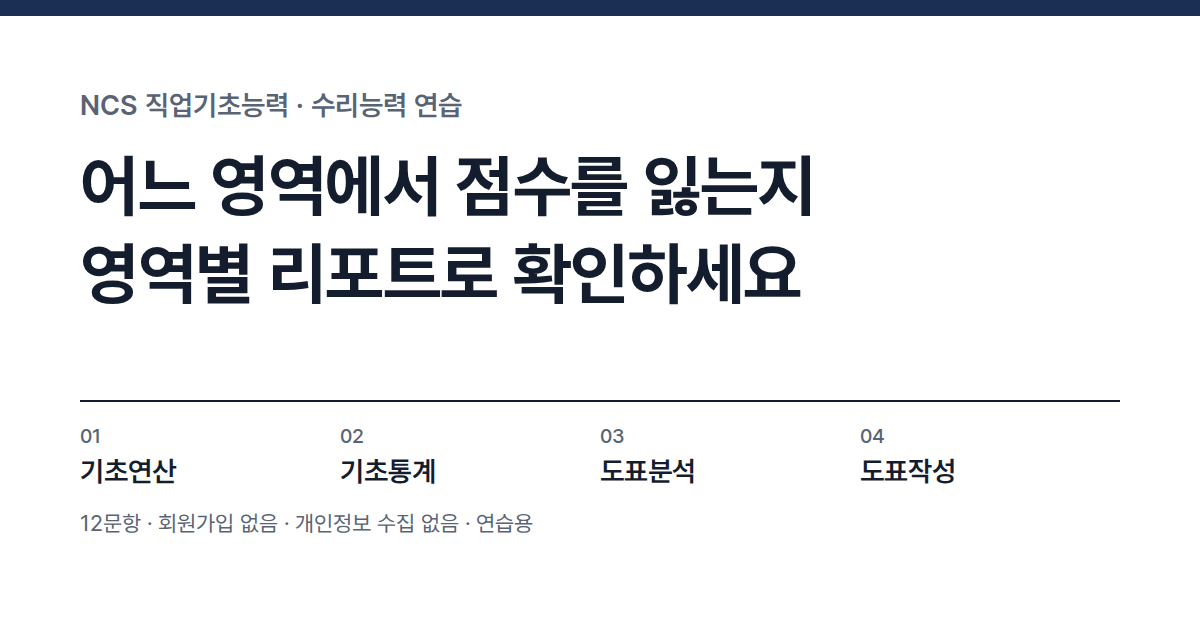
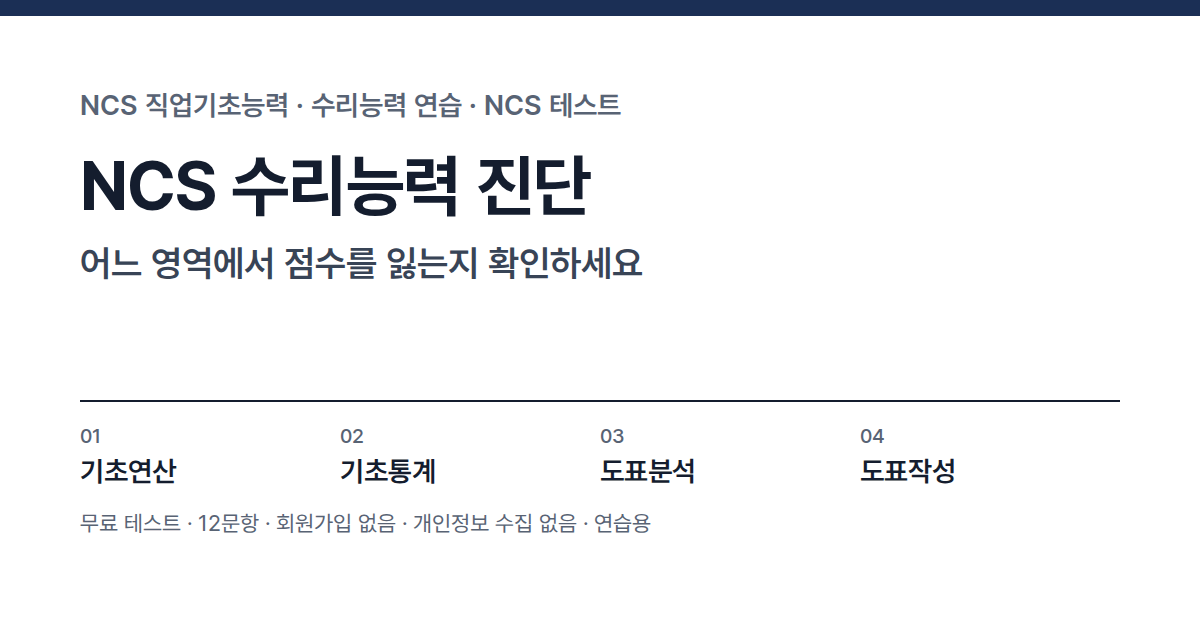
제목·메타를 'NCS 수리능력 진단' 기준으로 통일
- 메인 <title>/OG: 'NCS 수리능력 진단 · 무료 테스트', h1 'NCS 수리능력 진단' + 보조 문구
- 보조 문구에 'NCS 테스트' 추가, meta description·OG·JSON-LD·안내/풀이 페이지 title,
  머리말 브랜드, 시작 전 안내, 결과·인쇄 성적표 제목('NCS 수리능력 진단 리포트') 정리
- 변형 키워드는 문장 안에서 1회씩만 ('NCS 수리 문제' 메인 description, 'NCS 수리 모의고사' 안내 페이지)
- OG 이미지 새 제목으로 재생성, README 제목 변경
- /diagnosis/ noindex, robots·sitemap 규칙은 그대로

Claude-Session: https://claude.ai/code/session_01LXuCSLsUj66MjWXprg1TaF

diff --git a/index.html b/index.html
@@ -3,17 +3,17 @@
 <head>
 <meta charset="utf-8">
 <meta name="viewport" content="width=device-width, initial-scale=1, viewport-fit=cover">
-<title>NCS 수리능력 연습 진단 · 영역별 약점 리포트</title>
-<meta name="description" content="기초연산·기초통계·도표분석·도표작성 4개 영역을 12문항으로 점검하고, 영역별 정답률·풀이 시간·틀린 패턴과 추천 학습 순서를 확인하는 무료 연습 진단입니다. 회원가입과 개인정보 수집이 없습니다.">
+<title>NCS 수리능력 진단 · 무료 테스트</title>
+<meta name="description" content="NCS 수리능력 진단은 기초연산·기초통계·도표분석·도표작성 4개 영역을 12문항으로 점검하고 영역별 정답률·풀이 시간·틀린 패턴과 추천 학습 순서를 알려 주는 무료 NCS 테스트입니다. 풀 때마다 숫자가 바뀌는 NCS 수리 문제로 연습할 수 있으며, 회원가입과 개인정보 수집이 없습니다.">
 <link rel="canonical" href="%VITE_SITE_URL%/">
 <meta name="theme-color" content="#1b2f55" media="(prefers-color-scheme: light)">
 <meta name="theme-color" content="#0f1623" media="(prefers-color-scheme: dark)">
 <link rel="icon" href="/favicon.svg" type="image/svg+xml">
 <meta property="og:type" content="website">
 <meta property="og:locale" content="ko_KR">
-<meta property="og:site_name" content="수리능력 연습 진단">
-<meta property="og:title" content="NCS 수리능력 연습 진단 · 영역별 약점 리포트">
-<meta property="og:description" content="4개 영역 12문항으로 영역별 정답률·풀이 시간·틀린 패턴과 추천 학습 순서를 확인하세요. 풀 때마다 숫자가 바뀌는 연습용 문제입니다.">
+<meta property="og:site_name" content="NCS 수리능력 진단">
+<meta property="og:title" content="NCS 수리능력 진단 · 무료 테스트">
+<meta property="og:description" content="NCS 수리능력 진단: 4개 영역 12문항으로 영역별 정답률·풀이 시간·틀린 패턴과 추천 학습 순서를 확인하는 무료 NCS 테스트입니다.">
 <meta property="og:url" content="%VITE_SITE_URL%/">
 <meta property="og:image" content="%VITE_SITE_URL%/og.png">
 <meta property="og:image:width" content="1200">
@@ -21,15 +21,16 @@
 <meta name="twitter:card" content="summary_large_image">
 <link rel="stylesheet" href="/src/styles/main.css">
 <script type="application/ld+json">
-{"@context":"https://schema.org","@type":"WebApplication","name":"수리능력 연습 진단","applicationCategory":"EducationalApplication","operatingSystem":"Web","inLanguage":"ko","isAccessibleForFree":true,"description":"기초연산·기초통계·도표분석·도표작성 4개 영역 연습 진단과 영역별 리포트"}
+{"@context":"https://schema.org","@type":"WebApplication","name":"NCS 수리능력 진단","applicationCategory":"EducationalApplication","operatingSystem":"Web","inLanguage":"ko","isAccessibleForFree":true,"description":"기초연산·기초통계·도표분석·도표작성 4개 영역을 점검하는 무료 NCS 테스트와 영역별 리포트"}
 </script>
 </head>
 <body>
 <!--#masthead-->
 <main class="page" id="main">
   <section class="hero" aria-labelledby="hero-title">
-    <p class="eyebrow">NCS 직업기초능력 · 수리능력 연습</p>
-    <h1 class="title" id="hero-title">수리능력, 어느 영역에서<br>점수를 잃는지 확인하세요</h1>
+    <p class="eyebrow">NCS 직업기초능력 · 수리능력 연습 · NCS 테스트</p>
+    <h1 class="title" id="hero-title">NCS 수리능력 진단</h1>
+    <p class="hero-sub">어느 영역에서 점수를 잃는지 확인하세요</p>
     <p class="lead">기초연산·기초통계·도표분석·도표작성 4개 영역에서 3문항씩, 모두 12문항을 풉니다. 결과는 맞힌 개수가 아니라 영역별 리포트로 정리됩니다.</p>
     <div class="hero-cta">
       <a class="btn-primary" href="/diagnosis/">진단 시작하기</a>

diff --git a/method/index.html b/method/index.html
@@ -3,17 +3,17 @@
 <head>
 <meta charset="utf-8">
 <meta name="viewport" content="width=device-width, initial-scale=1, viewport-fit=cover">
-<title>문제 생성·검증 방식 · 수리능력 연습 진단</title>
-<meta name="description" content="수리능력 연습 진단의 문제를 어떻게 만들고 정답을 어떻게 검증하는지, 결과 수준을 어떤 기준으로 판정하는지, 개인정보를 어떻게 다루는지 안내합니다.">
+<title>문제 생성·검증 방식 · NCS 수리능력 진단</title>
+<meta name="description" content="NCS 수리능력 진단의 문제를 어떻게 만들고 정답을 어떻게 검증하는지, 결과 수준을 어떤 기준으로 판정하는지, 개인정보를 어떻게 다루는지 안내합니다.">
 <link rel="canonical" href="%VITE_SITE_URL%/method/">
 <meta name="theme-color" content="#1b2f55" media="(prefers-color-scheme: light)">
 <meta name="theme-color" content="#0f1623" media="(prefers-color-scheme: dark)">
 <link rel="icon" href="/favicon.svg" type="image/svg+xml">
 <meta property="og:type" content="article">
 <meta property="og:locale" content="ko_KR">
-<meta property="og:site_name" content="수리능력 연습 진단">
-<meta property="og:title" content="문제 생성·검증 방식 · 수리능력 연습 진단">
-<meta property="og:description" content="모든 문제는 직접 만든 템플릿으로 생성하고, 정답은 계산식으로 자동 검증합니다.">
+<meta property="og:site_name" content="NCS 수리능력 진단">
+<meta property="og:title" content="문제 생성·검증 방식 · NCS 수리능력 진단">
+<meta property="og:description" content="NCS 수리능력 진단의 모든 문제는 직접 만든 템플릿으로 생성하고, 정답은 계산식으로 자동 검증합니다.">
 <meta property="og:url" content="%VITE_SITE_URL%/method/">
 <meta property="og:image" content="%VITE_SITE_URL%/og.png">
 <meta name="twitter:card" content="summary_large_image">
@@ -24,7 +24,7 @@
 <main class="page prose" id="main">
   <p class="eyebrow">안내</p>
   <h1 class="title">문제 생성·검증 방식</h1>
-  <p class="lead">이 진단의 문제는 어디서 가져온 것이 아니라 직접 만든 생성 규칙(템플릿)으로 매번 새로 만들어집니다. 만드는 방법과 검증하는 방법, 결과를 판정하는 기준을 모두 공개합니다.</p>
+  <p class="lead">NCS 수리능력 진단의 문제는 어디서 가져온 것이 아니라 직접 만든 생성 규칙(템플릿)으로 매번 새로 만들어집니다. 만드는 방법과 검증하는 방법, 결과를 판정하는 기준을 모두 공개합니다.</p>
 
   <h2 id="overview">1. 진단 영역과 진행 방식</h2>
   <h3>진단하는 4개 영역</h3>
@@ -36,6 +36,7 @@
   </ul>
   <p>4개 영역은 NCS 직업기초능력 가운데 수리능력의 하위 능력을 학습하기 쉽게 정리한 것입니다. 실제 채용 시험은 기관마다 출제 구성과 난이도가 다르며, 이 진단은 특정 기관의 시험과 같다고 보장하지 않습니다.</p>
   <h3>진행 방식</h3>
+  <p>많은 문항을 시간 안에 푸는 NCS 수리 모의고사와 달리, 이 진단은 영역마다 3문항씩만 풀어 약한 영역을 빠르게 찾는 데 목적이 있습니다.</p>
   <ul>
     <li>영역마다 3문항씩 모두 12문항을 풉니다. 문항마다 보기를 고르면 바로 다음 문항으로 넘어가고, 이전 문항으로 돌아가 답을 바꿀 수도 있습니다. 정답은 마지막에 한꺼번에 공개합니다.</li>
     <li>화면 위쪽 진행 바에서 남은 문항과 경과 시간을 확인할 수 있습니다.</li>

diff --git a/diagnosis/index.html b/diagnosis/index.html
@@ -3,8 +3,8 @@
 <head>
 <meta charset="utf-8">
 <meta name="viewport" content="width=device-width, initial-scale=1, viewport-fit=cover">
-<title>진단 풀기 · 수리능력 연습 진단</title>
-<meta name="description" content="수리능력 4개 영역 12문항 연습 진단 풀이 화면">
+<title>진단 풀기 · NCS 수리능력 진단</title>
+<meta name="description" content="NCS 수리능력 진단 풀이 화면 (4개 영역 12문항)">
 <meta name="robots" content="noindex">
 <meta name="theme-color" content="#1b2f55" media="(prefers-color-scheme: light)">
 <meta name="theme-color" content="#0f1623" media="(prefers-color-scheme: dark)">

diff --git a/src/ui/result.ts b/src/ui/result.ts
@@ -109,8 +109,8 @@ export function renderResult(app: HTMLElement, qs: Problem[], attempts: Attempt[
   app.innerHTML = `
   <main class="page report" id="main">
     <header class="doc-head">
-      <p class="eyebrow">NCS 수리능력 연습 진단</p>
-      <h1 class="title">영역별 진단 리포트</h1>
+      <p class="eyebrow">영역별 결과 · NCS 테스트</p>
+      <h1 class="title">NCS 수리능력 진단 리포트</h1>
       <dl class="meta">
         <div><dt>진단 일시</dt><dd>${when}</dd></div>
         <div><dt>문항 구성</dt><dd>${r.total}문항 (영역별 ${perArea}문항)</dd></div>

diff --git a/src/partials/masthead.html b/src/partials/masthead.html
@@ -1,7 +1,7 @@
 <a class="skip" href="#main">본문 바로가기</a>
 <header class="masthead">
   <div class="masthead-in">
-    <a class="brand" href="/"><span class="brand-mark" aria-hidden="true"></span>수리능력 연습 진단</a>
+    <a class="brand" href="/"><span class="brand-mark" aria-hidden="true"></span>NCS 수리능력 진단</a>
     <nav class="nav" aria-label="주요 메뉴">
       <a href="/diagnosis/">진단하기</a>
       <a href="/method/">생성·검증 방식</a>

diff --git a/src/ui/diagnosis.ts b/src/ui/diagnosis.ts
@@ -17,7 +17,7 @@ function renderReady() {
   const n = areas.length * PER_AREA;
   app.innerHTML = `
   <main class="page" id="main">
-    <p class="eyebrow">수리능력 연습 진단</p>
+    <p class="eyebrow">NCS 수리능력 진단</p>
     <h1 class="title" tabindex="-1">시작 전 안내</h1>
     <dl class="facts">
       <div><dt>문항</dt><dd>${n}문항 · 5지선다<br><span class="sub">${areas.map((a) => a.name).join(' · ')} 영역별 ${PER_AREA}문항</span></dd></div>

diff --git a/src/styles/landing.css b/src/styles/landing.css
@@ -9,6 +9,14 @@
   font-size: 30px;
   line-height: 1.4;
 }
+.hero-sub {
+  font-family: var(--serif);
+  font-weight: 600;
+  font-size: 22px;
+  line-height: 1.45;
+  color: var(--ink-2);
+  margin-top: var(--s2);
+}
 .hero-cta {
   display: flex;
   flex-wrap: wrap;

diff --git a/README.md b/README.md
@@ -1,4 +1,4 @@
-# NCS 수리능력 연습 진단
+# NCS 수리능력 진단
 
 서버·DB 없이 브라우저에서만 동작하는 정적 사이트(Vite + TypeScript)입니다.
 4개 영역(기초연산·기초통계·도표분석·도표작성)에서 3문항씩 12문항을 풀고, 영역별 리포트를 받습니다.
